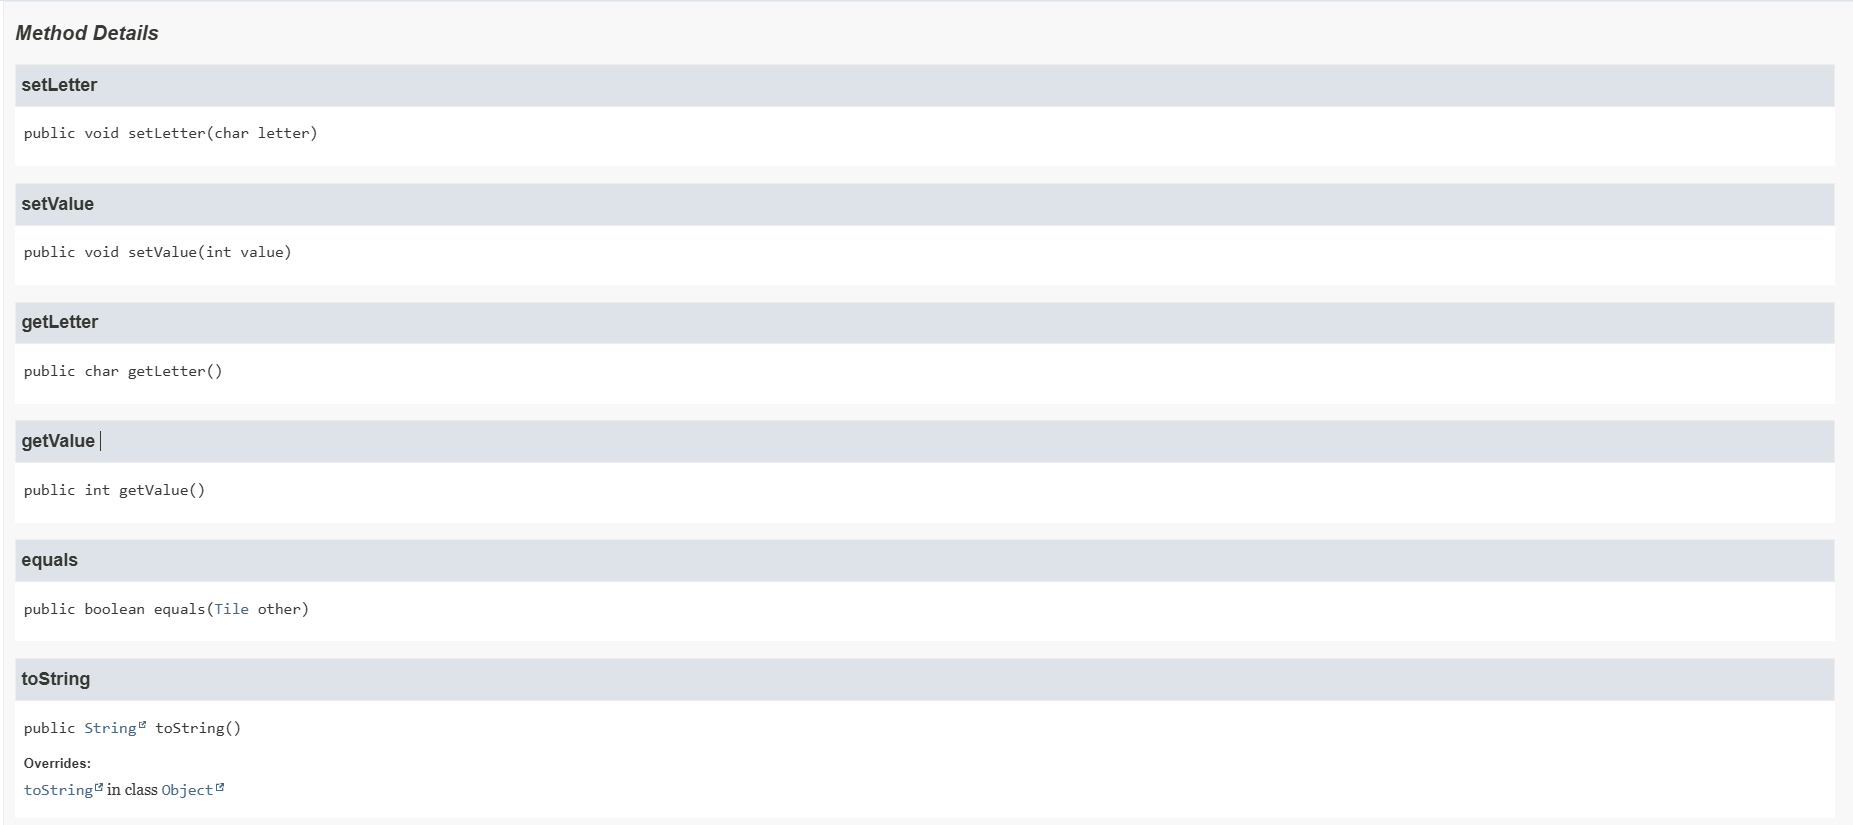
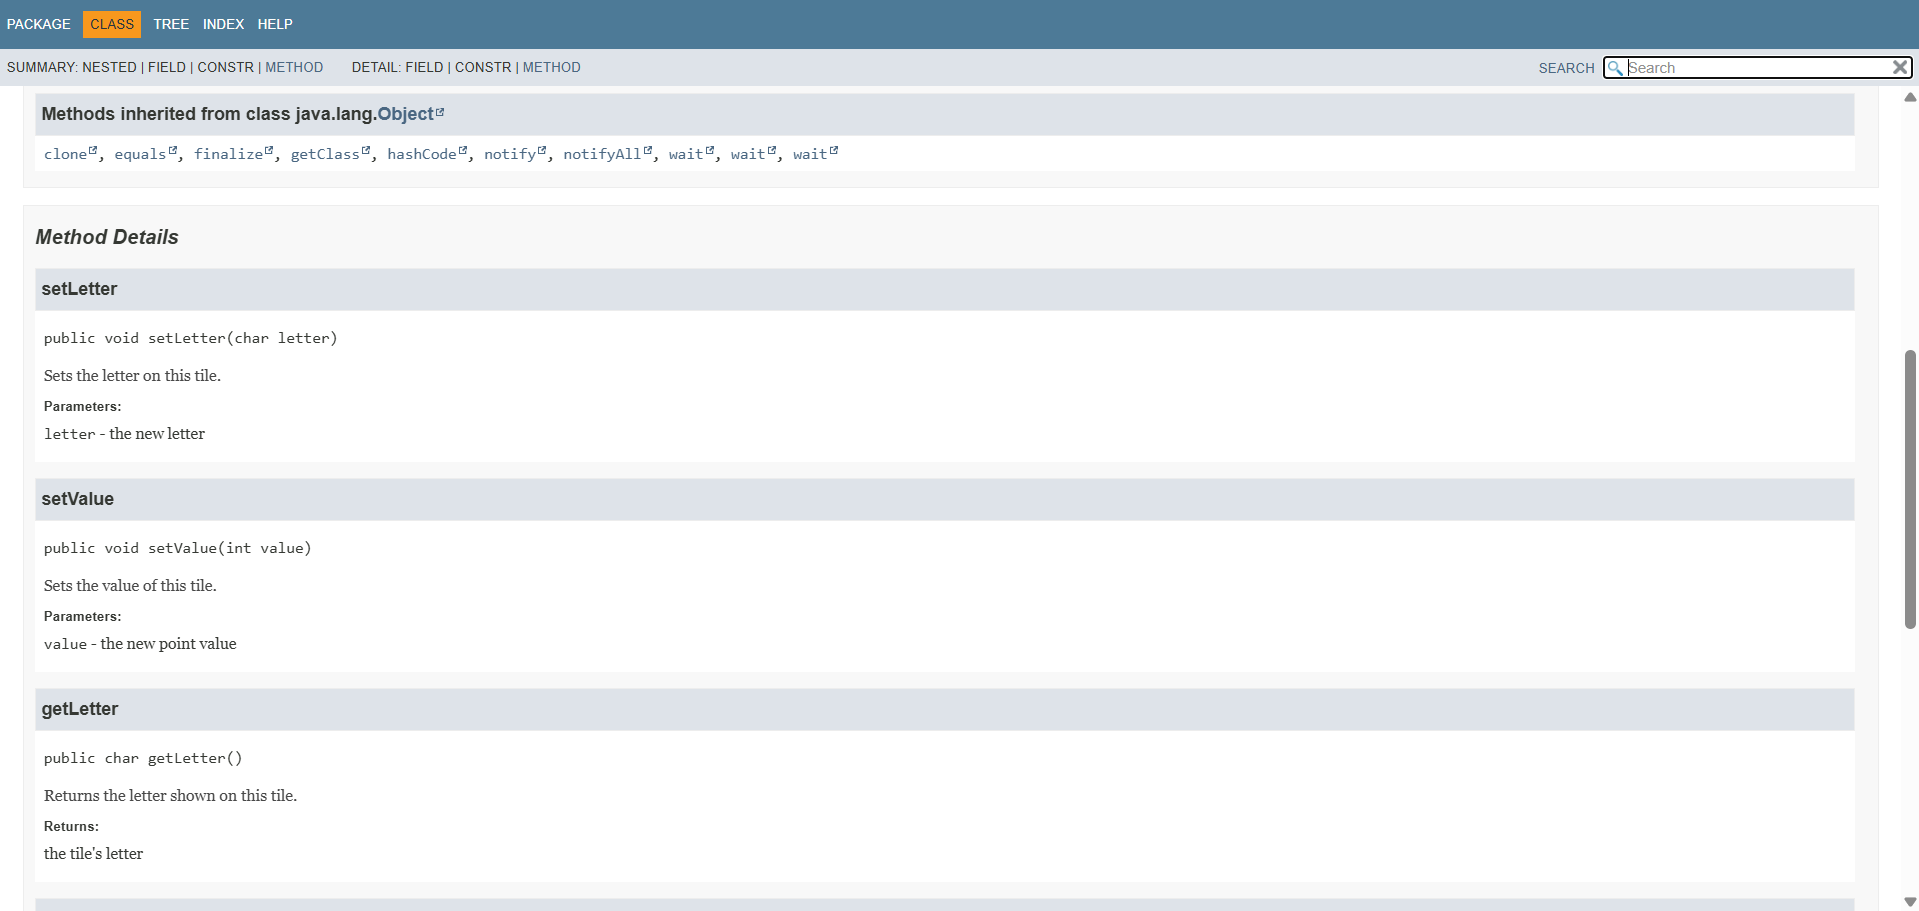
Add files via upload

diff --git a/Lab5_ScrabbleGame/index/index.html b/Lab5_ScrabbleGame/index/index.html
@@ -1,0 +1,26 @@
+<!DOCTYPE HTML>
+<html lang="en">
+<head>
+<!-- Generated by javadoc (21) on Tue Nov 18 21:39:46 PST 2025 -->
+<title>Generated Documentation (Untitled)</title>
+<meta name="viewport" content="width=device-width, initial-scale=1">
+<meta http-equiv="Content-Type" content="text/html; charset=utf-8">
+<meta name="dc.created" content="2025-11-18">
+<meta name="description" content="index redirect">
+<meta name="generator" content="javadoc/IndexRedirectWriter">
+<link rel="canonical" href="package-summary.html">
+<link rel="stylesheet" type="text/css" href="stylesheet.css" title="Style">
+<script type="text/javascript">window.location.replace('package-summary.html')</script>
+<noscript>
+<meta http-equiv="Refresh" content="0;package-summary.html">
+</noscript>
+</head>
+<body class="index-redirect-page">
+<main role="main">
+<noscript>
+<p>JavaScript is disabled on your browser.</p>
+</noscript>
+<p><a href="package-summary.html">package-summary.html</a></p>
+</main>
+</body>
+</html>

diff --git a/Lab5_ScrabbleGame/ScrabbleGame/src/Tile.java b/Lab5_ScrabbleGame/ScrabbleGame/src/Tile.java
@@ -1,24 +1,72 @@
+/**
+ * Represents a single Scrabble tile.
+ * Each tile contains a letter and a point value.
+ *
+ * @author Mohammad Albatainah
+ * @author Isaiah Johnson
+ * @version 2025-11-17
+ */
 public class Tile {
+
     private char letter;
     private int value;
 
+    /**
+     * Creates a Tile with a given letter and value.
+     *
+     * @param letter the letter on the tile
+     * @param value  the score value of the tile
+     */
     Tile(char letter, int value) {
         this.letter = letter;
         this.value = value;
     }
 
-    public void setLetter(char letter) { this.letter = letter; }
+    /**
+     * Sets the letter on this tile.
+     * @param letter the new letter
+     */
+    public void setLetter(char letter) {
+        this.letter = letter;
+    }
 
-    public void setValue(int value) { this.value = value; }
+    /**
+     * Sets the value of this tile.
+     * @param value the new point value
+     */
+    public void setValue(int value) {
+        this.value = value;
+    }
 
-    public char getLetter() { return this.letter; }
+    /**
+     * Returns the letter shown on this tile.
+     * @return the tile's letter
+     */
+    public char getLetter() {
+        return this.letter;
+    }
 
-    public int getValue() { return this.value; }
+    /**
+     * Returns the point value of this tile.
+     * @return the tile's value
+     */
+    public int getValue() {
+        return this.value;
+    }
 
+    /**
+     * Checks whether this tile has the same letter as another tile.
+     * @param other the tile to compare with
+     * @return true if both tiles have the same letter, false otherwise
+     */
     public boolean equals(Tile other) {
         return this.letter == other.letter;
     }
 
+    /**
+     * Returns a formatted text version of this tile.
+     * @return a string that describes the tile
+     */
     public String toString() {
         return String.format("%c (value = %d)", letter, value);
     }

diff --git a/Lab5_ScrabbleGame/ScrabbleGame/src/App.java b/Lab5_ScrabbleGame/ScrabbleGame/src/App.java
@@ -45,6 +45,15 @@ public class App {
                 System.out.println("yes, can spell " + word);
             } else {
                 System.out.println("no, cannot spell " + word);
+
+
+                System.out.print("Do you want to change one tile (yes,no)? ");
+                String changeAns = in.next().toLowerCase();
+                if (changeAns.equals("yes")) {
+                    changeRandomTile(hand);
+                    System.out.print("New tile set: ");
+                    printHand(hand);
+                }
             }
 
             System.out.print("Do you want to continue(yes,no)? ");
@@ -53,6 +62,7 @@ public class App {
             if (!answer.equals("yes")) {
                 keepPlaying = false;
             } else {
+
                 getNewTileSet(hand, 7);
             }
         }
@@ -93,6 +103,30 @@ public class App {
         tiles.add(new Tile('X', 8));
         tiles.add(new Tile('Y', 4));
         tiles.add(new Tile('Z', 10));
+    }
+
+     /**
+     * Replaces one random tile in the player's hand with a new random tile
+     * from the full list of tiles.
+     *
+     * @param hand the current set of tiles in the player's hand
+     */
+    public static void changeRandomTile(ArrayList<Tile> hand) {
+        if (hand.isEmpty()) {
+            return;
+        }
+
+        Random rand = new Random();
+
+
+        int handIndex = rand.nextInt(hand.size());
+
+
+        int allIndex = rand.nextInt(allTiles.size());
+        Tile base = allTiles.get(allIndex);
+
+
+        hand.set(handIndex, new Tile(base.getLetter(), base.getValue()));
     }
 
     /**
@@ -165,7 +199,7 @@ public class App {
                 return false;
             }
         }
-
+        
         hand.clear();
         hand.addAll(temp);
 
